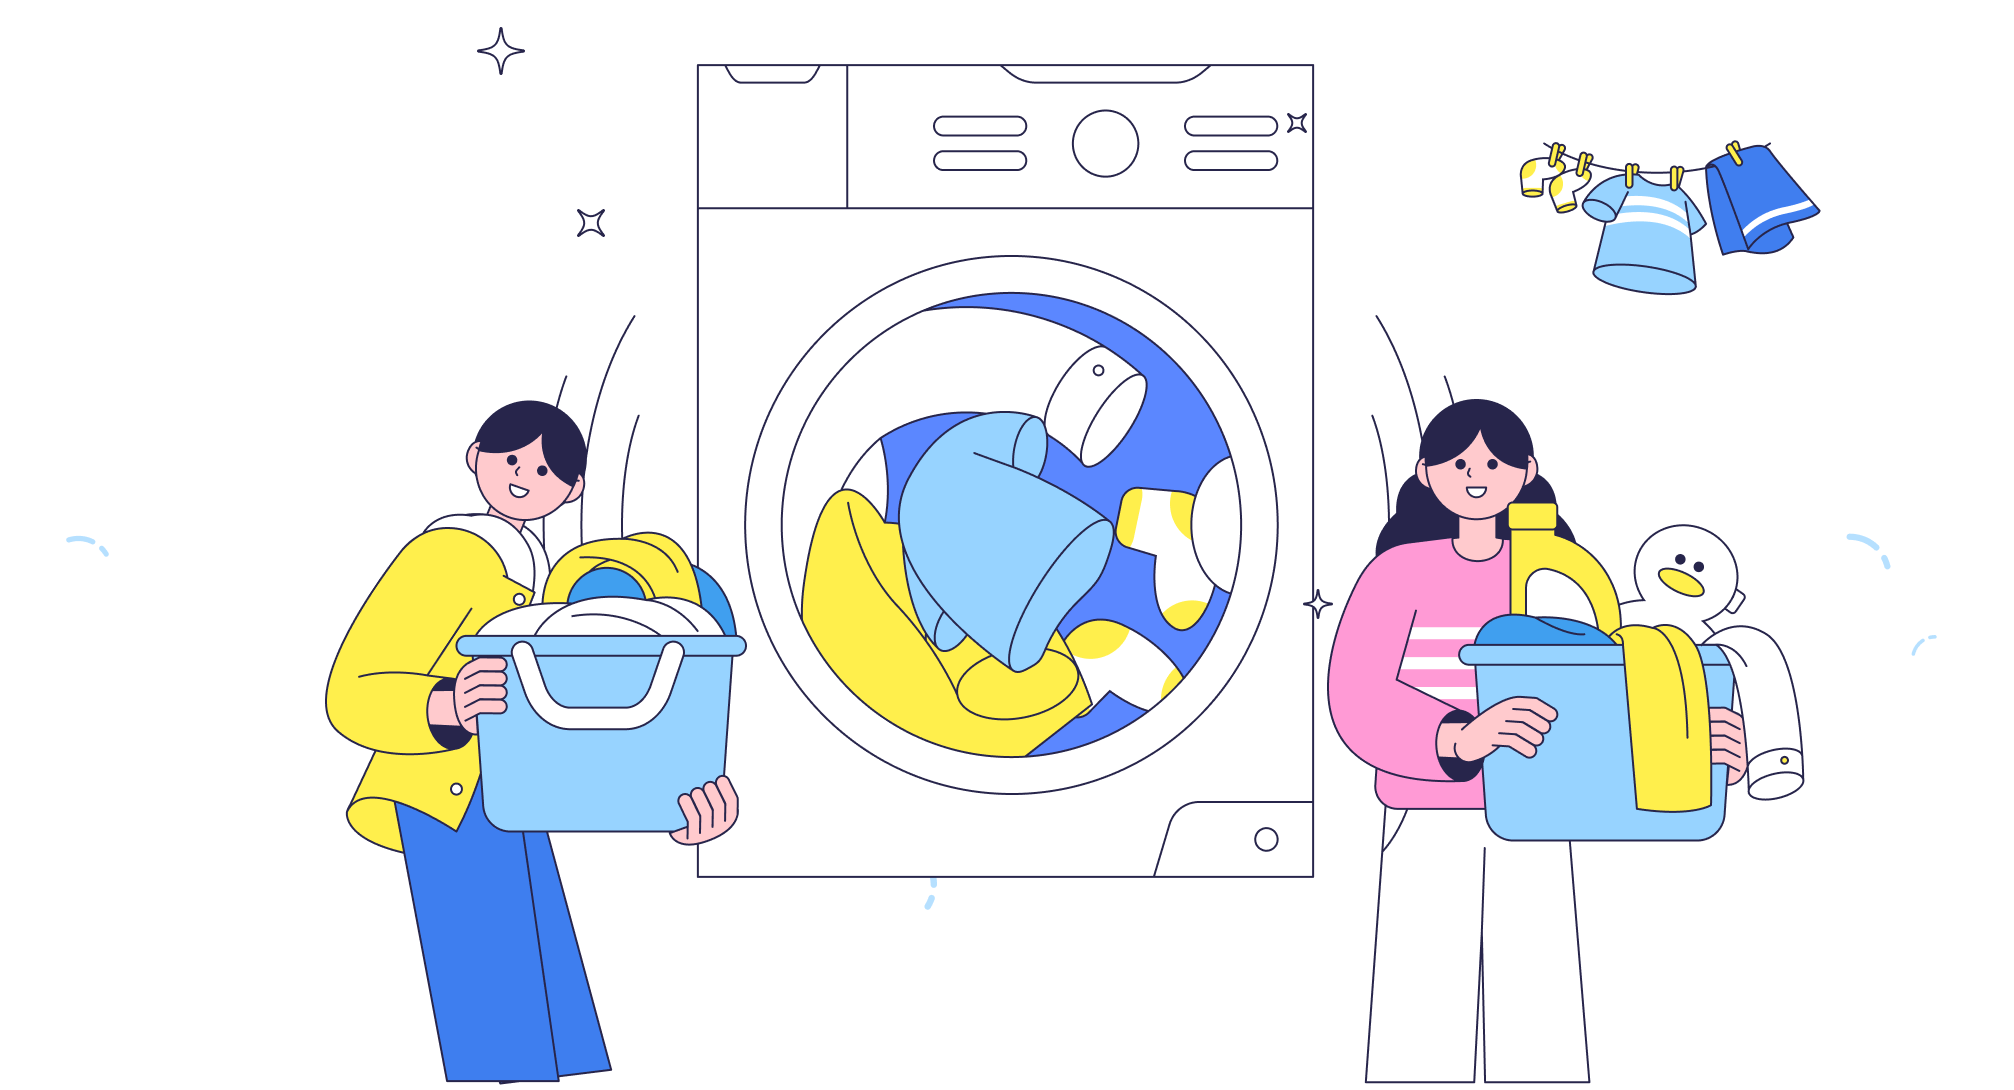
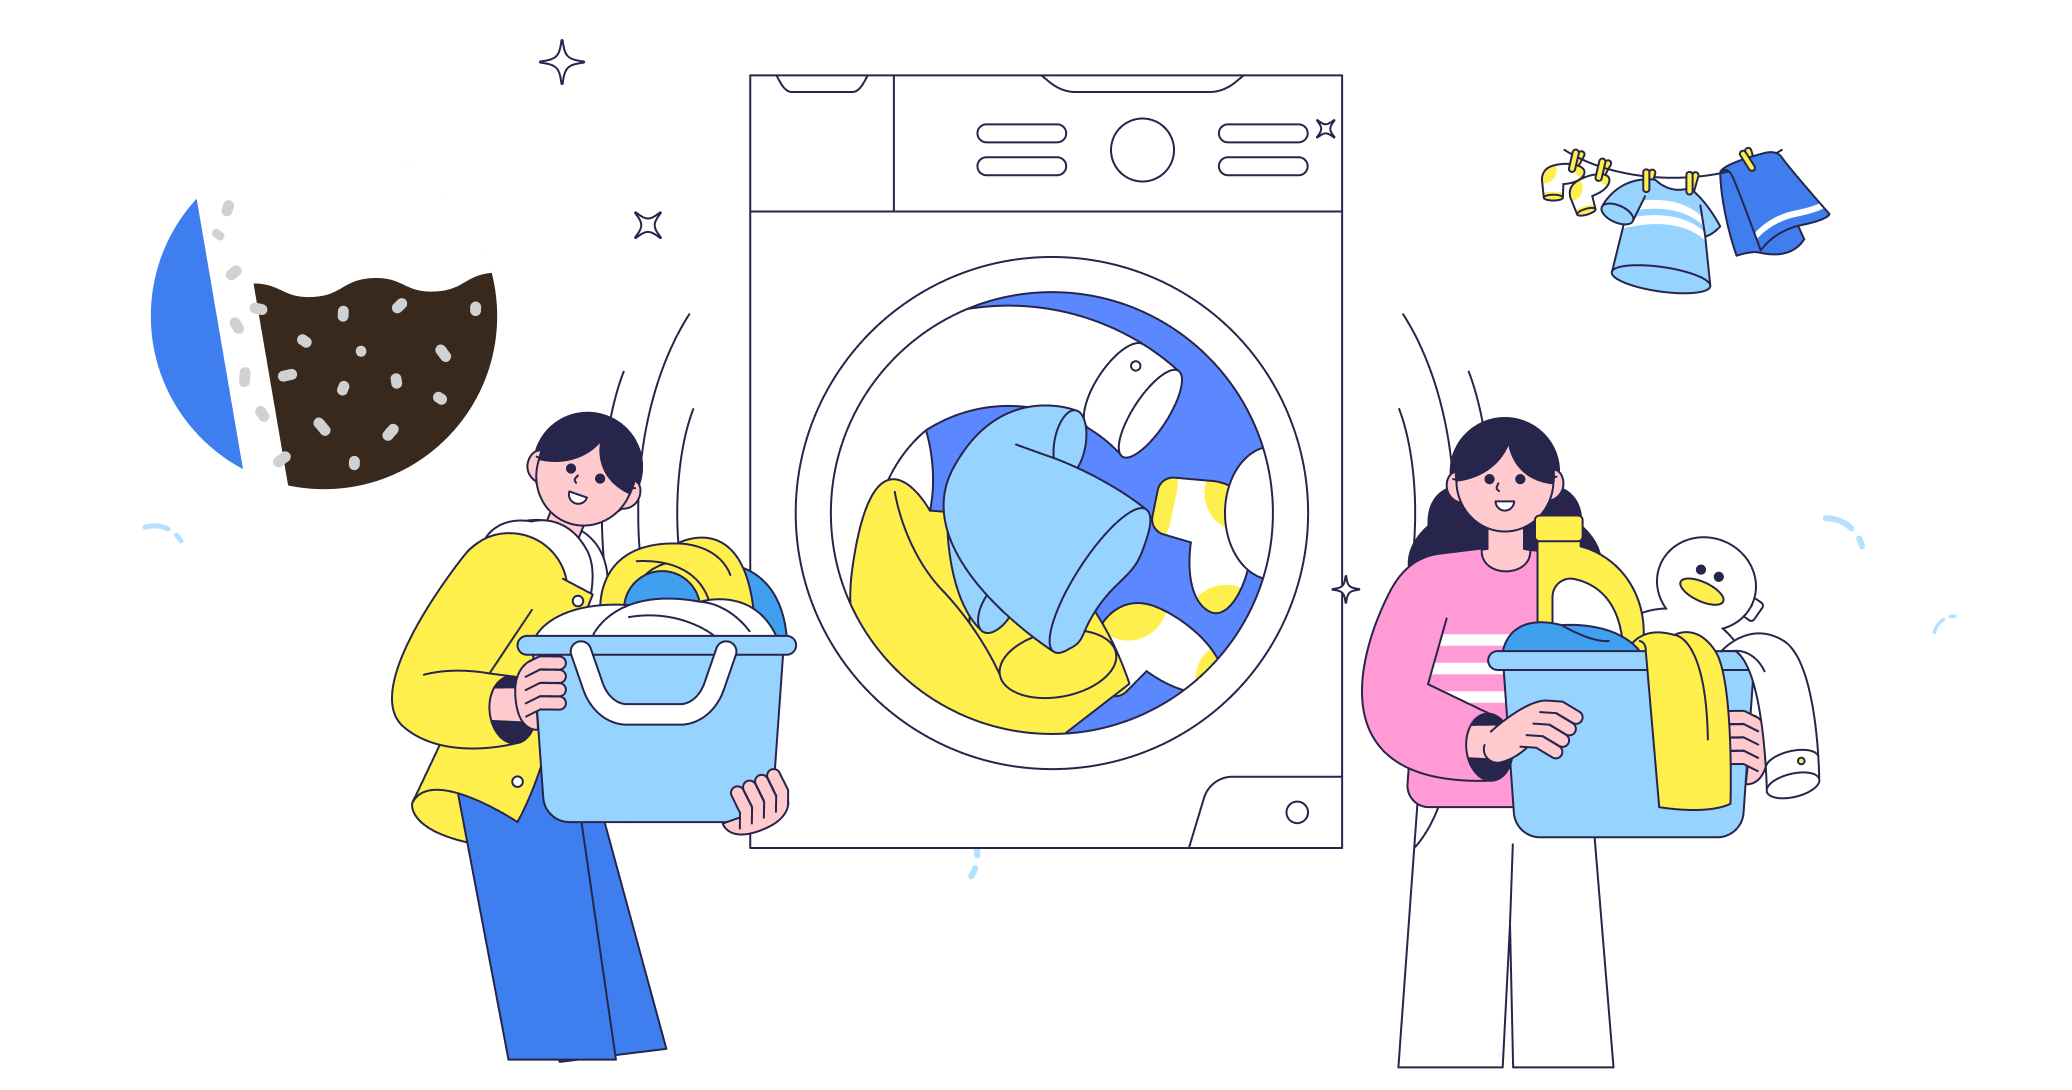
변경완료

diff --git a/sub-07.html b/sub-07.html
@@ -49,8 +49,8 @@
  
 #sub-07 .img-section { position: relative; width: 100%; overflow: hidden; }
 #sub-07 .img-bg { width: 100%; display: block; object-fit: cover; }
-#sub-07 .img-illust-wrap { position: absolute; inset: 0; display: flex; align-items: flex-end; justify-content: center; }
-#sub-07 .img-illust { width: 65%; max-width: 1100px; display: block; }
+#sub-07 .img-illust-wrap { position: absolute; inset: 0; display: flex; align-items: flex-end; justify-content: center; padding-bottom: 0; }
+#sub-07 .img-illust { width: 65%; max-width: 1100px; display: block; transform: translateY(8%); }
 
 #sub-07 .article-wrap { }
 #sub-07 .article-img-wrap { width: 100%; overflow: hidden; margin-bottom: 28px; }
@@ -64,6 +64,7 @@
   #sub-07 .nps-wrap-inner { padding: 0 20px;}
   #sub-07 .title-wrap { padding: 10px 20px 5px 20px; }
   #sub-07 .article-subtitle { font-size: 21px; margin-top: 50px; }
+  #sub-07 .img-illust { transform: translateY(0); }
   #sub-07 .img-bg { width: 140%; margin-left: -20%; }
   #sub-07 .img-illust { width: calc(100% - 20px); max-width: none; }
   #sub-07 .article-body p { font-size: 16px; letter-spacing: -0.5px; }
@@ -86,7 +87,7 @@
 
 #sub-07 .cloud-wrap { position: absolute; bottom: -95%; left: -38%; width: 190%; z-index: 2; }
 #sub-07 .cloud-wrap img { width: 95%; display: block; }
-#sub-07 .cloud-text { position: absolute; inset: 0; display: flex; flex-direction: column; align-items: flex-start; justify-content: center; padding: 15% 17% 10% 25%; color: #fff; pointer-events: none; line-height: 1; }
+#sub-07 .cloud-text { position: absolute; inset: 0; display: flex; flex-direction: column; align-items: flex-start; justify-content: center; padding: 15% 17% 10% 25%; color: #fff; pointer-events: none; line-height: 1.2; }
 #sub-07 .cloud-text .c-top { font-size: 1.1vw; font-weight: 400;  }
 #sub-07 .cloud-text .c-top em { font-size: 3.8vw; font-weight: 400; font-style: normal; }
 #sub-07 .cloud-text .c-mid { font-size: 1.1vw; font-weight: 500; margin: 0 0 2px; }
@@ -105,7 +106,7 @@
 #sub-07 .globe-text { position: absolute; inset: 0; display: flex; flex-direction: column; align-items: center; justify-content: center; text-align: center; color: #fff; line-height: 1.4; pointer-events: none; }
 #sub-07 .globe-text .g-small { font-size: 1.1vw; font-weight: 500; margin: 0; }
 #sub-07 .globe-text .g-big { font-size: 3.8vw; font-weight: 400; margin: 0; letter-spacing: -0.02em; }
-#sub-07 .globe-text .g-big em { font-size: 1.1vw; font-weight: 500; font-style: normal; vertical-align: super; }
+#sub-07 .globe-text .g-big em { font-size: 1.1vw; font-weight: 500; font-style: normal; }
 #sub-07 .globe-text .g-sub { font-size: 1.1vw; font-weight: 500; margin: 0; }
 
 @media (max-width: 1200px) {

diff --git a/sub-08.html b/sub-08.html
@@ -552,7 +552,7 @@
               내 지갑은 텅 비어 있지만, <br class="mob-br"> 내 자산들은 오늘도 대형 우량주에 들어가<br>
               열심히 땀 흘려 일하고 있다. <br class="mob-br"> 투자의 온도가 달라지고 있다.<br>
               뜨겁고 화끈한 수익보다,<br>
-              따뜻하고 꾸준한 흐름을 선택하는 <br class="mob-br">사람들이 늘고 있다..
+              따뜻하고 꾸준한 흐름을 선택하는 <br class="mob-br">사람들이 늘고 있다.
             </p>
           </div>
     
@@ -661,11 +661,11 @@
             <strong class="s08-profile__name">환상감자(이은호)</strong>
             <p class="s08-profile__desc">노동소득을 자본소득으로 바꾸는 집요한 '형변환' 과정을 통해 월 300만 원의 배당 현금 흐름 시스템을 완성했다. '대박 홈런보다는 확실한 1루타'를 지향하는 안전한 투자 원칙으로, 30대에 경제적 자유를 달성했으며, 현재는 직장을 떠나 5개월 된 아이와 함께하는 소중한 시간을 선택하며 돈이 아닌 삶을 위한 투자를 실천하고 있다.</p>
             <div class="s08-profile__links">
-              <a href="#" class="s08-profile__link">
+              <a href="https://blog.naver.com/fantasticpotato" class="s08-profile__link">
                 <img src="img/sub/08/blog.png" alt="" class="s08-profile__link-icon">
                 <span>블로그</span>
               </a>
-              <a href="#" class="s08-profile__link">
+              <a href="https://www.youtube.com/@%ED%99%98%EC%83%81%EA%B0%90%EC%9E%90" class="s08-profile__link">
                 <img src="img/sub/08/youtube.png" alt="" class="s08-profile__link-icon">
                 <span>유튜브 채널</span>
               </a>

diff --git a/event-02.html b/event-02.html
@@ -49,7 +49,7 @@
 #event-02 .e02-tbl { max-width: 580px; margin: 0 auto 130px; }
 #event-02 .e02-tr { display: flex; align-items: center; border: 1px solid #222; border-radius: 40px; overflow: hidden; margin-bottom: 10px; background: #fff; }
 #event-02 .e02-th { flex: 0 0 160px; padding: 7px 16px; font-size: 20px; font-weight: 700; text-align: center; }
-#event-02 .e02-td { flex: 1; padding: 7px 16px; font-size: 20px; text-align: center; font-weight: 400;}
+#event-02 .e02-td { flex: 1; padding: 7px 16px; font-size: 20px; text-align: left; font-weight: 400;}
 #event-02 .e02-btns { display: flex; justify-content: center; gap: 30px; margin-bottom: 80px; }
 #event-02 .e02-d05 { position: absolute; left: -200px; bottom: 270px; width: 130px; }
 #event-02 .e02-d06 { position: absolute; right: -200px; bottom: 100px; width: 120px; }

diff --git a/event-04.html b/event-04.html
@@ -250,7 +250,7 @@
       </h2>
       <p class="intro-desc" data-aos="fade-up" data-aos-duration="600" data-aos-delay="200">
         잘 읽었다는 칭찬도,<br class="mob-br"> 따끔한 충고도 다 좋습니다.<br>
-        독자님의 솔직한 목소리라면<br class="mob-br"> 저희는 '오히려 좋아'요!
+        독자님의 솔직한 목소리라면<br class="mob-br"> 저희는 ‘오히려 좋아’요!
       </p>
       <div class="illust-wrap" data-aos="fade-up" data-aos-duration="800" data-aos-delay="300">
         <img src="img/event/04/01.png" class="illust pc" alt="독자 일러스트">
